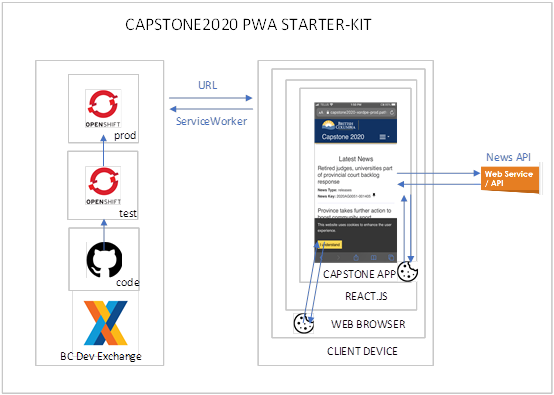
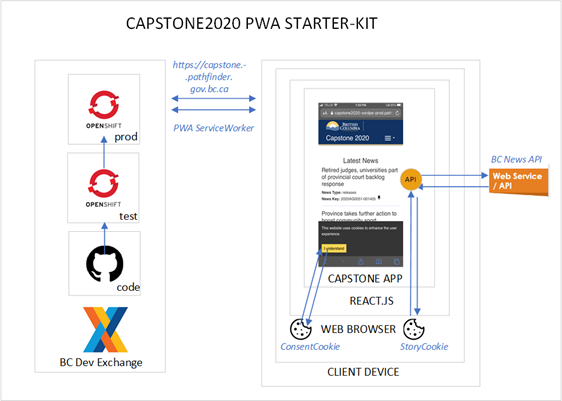
modify readme

diff --git a/docs/README.md b/docs/README.md
@@ -1,7 +1,7 @@
 <!--
  * @Author: your name
  * @Date: 2020-07-28 22:06:43
- * @LastEditTime: 2020-07-28 23:04:43
+ * @LastEditTime: 2020-07-29 12:49:26
  * @LastEditors: Please set LastEditors
  * @Description: In User Settings Edit
  * @FilePath: \undefinedc:\Users\Mark\Desktop\md\docs\README.md
@@ -20,15 +20,15 @@ During the summer of 2020 working with a developer team from Camosun College we 
 
 ## Modern Application Playbook?
 
-The [playbook](https://bcgov.github.io/CITZ-IMB-playbook/) describes collection of references, tools, and best practices starting with  product ideation, project approval, team formation, design, development stages through continuous improvement to the product sustainment lifecycle which our Agile team relied upon.
+We developed our solution by following the CITZ IMB Modern application [playbook](https://bcgov.github.io/CITZ-IMB-playbook/) which describes a collection of references, tools, and best practices starting from product ideation, project approval, team formation, design, development stages through continuous improvement to the product sustainment lifecycle which our Agile team relied upon.
 
 ## PWA Starter-kit
 
-This ‘starter kit’ was developed as a playbook “exemplar”. We developed on the [BC DevExchange](D:\capstone2020\bcdevechange.org) OpenShift container platform and followed community best practices including adherence to the 12 factor approach. 
+This 'starter kit' was developed as a playbook "exemplar". We developed on the [BC DevExchange](D:\capstone2020\bcdevechange.org) OpenShift container platform and followed community best practices including adherence to the 12 factor approach. 
 
 ## Twelve Factors
 
-This solution conforms to the principles of cloud ready solution development and follows the twelve factors approach. We describe how we conform in this article.
+This solution conforms to the principles of cloud ready solution development and follows the twelve factors approach. We describe how we conform in this [article](./TwelveFactor.md).
 
 # Features
 
@@ -46,33 +46,53 @@ This solution conforms to the principles of cloud ready solution development and
 
 # Solution Architecture
 
-![Screenshot](./images/architecture.png)
+The 'PWA starter kit' is based upon the create-react-app solution from Facebook developed using react.js. This ‘start-kit’ provides product owners with a foundation to develop mobile applications. The key elements which are provided include:
 
-Capstone2020 is a solution exemplar  developed on the BC Dev Exchange OpenShift platform using the facebook ‘create-react-app’ framework developed using react.js. The Capstone app is a progressive web app that can be user installed on Android devices. 
+1.	**BCGov Branding (Header/footer):** at this stage, the request has a status of **in-review**. Only at this stage can a user edit or delete the request, i.e. the edit and delete buttons are only visible on the request page at this stage. For the admin, they can either approve or disapprove the request, i.e. the request view page will show only the buttons for approval and disapproval.
 
-Using a call back serviceworker it maintains a connection with the hosting environment allowing the user to be notified if solution updates are deployed.
+2.	**Menu System:** <em>once the request has been approved the status changes to **pending** and, the user can no longer edit or delete it. For the admin, there will be a button on the request page to resolve the request.</em>
+
+3.	**App Shell:** <em>when a request is disapproved by an admin, the status changes to **disapproved** and no further action can be performed on it by either the user or admin.</em>
+
+<br/>
+
+![Screenshot](./images/Architecture.png)
+
+The Capstone app is a progressive web app that can be user installed on Android devices.
+
+Using a call back serviceworker script which maintains a connection with the hosting environment thereby allowing the user to be notified when solution updates are deployed.
+
+## App Start: 
+
+![Screenshot](./images/app-start.png)
+
+Some text that describes what is happening here
+
+
+## Selecting features:
+
+![Screenshot](./images/selecting-features.png)
+
+Some text that explains what is happening here
+
 
 ###	Key files:
 
-* [./src/views](https://github.com/bcgov/CITZ-IMB-Capstone2020/tree/master/src/views) : solution code files.
+[./.env](https://github.com/bcgov/CITZ-IMB-Capstone2020/blob/master/.env) : where the news API located.
 
-* [./src/css](https://github.com/bcgov/CITZ-IMB-Capstone2020/tree/master/src/css) : solution style files.
+[./public/](https://github.com/bcgov/CITZ-IMB-Capstone2020/tree/master/public)
 
-* [./jenkins](https://github.com/bcgov/CITZ-IMB-Capstone2020/tree/master/.jenkins) : Jenkins IO files.
-
-* [./.openshiftio](https://github.com/bcgov/CITZ-IMB-Capstone2020/tree/master/.openshiftio) : OpenShift IO files.
-
-* [.env](https://github.com/bcgov/CITZ-IMB-Capstone2020/blob/master/.env) : where the news API located.
-
-* [https://github.com/bcgov/CITZ-IMB-Capstone2020/blob/master/package.json](https://github.com/bcgov/CITZ-IMB-Capstone2020/blob/master/package.json) : all npm packages located.
-
-* [Jenkinsfile](https://github.com/bcgov/CITZ-IMB-Capstone2020/blob/master/Jenkinsfile) : pipeline script.
-
-* [serviceworker.js](https://github.com/bcgov/CITZ-IMB-Capstone2020/blob/master/public/serviceworker.js) : where you have to run the service worker.
+* [index.html](https://github.com/bcgov/CITZ-IMB-Capstone2020/blob/master/public/index.html) : solution entry point
 
 * [manifest.json](https://github.com/bcgov/CITZ-IMB-Capstone2020/blob/master/public/manifest.json) : where you have to update the icon based on different display sizes.
 
-* [index.js](https://github.com/bcgov/CITZ-IMB-Capstone2020/blob/master/src/index.js) :  where you have to register the service worker.
+[./src/](https://github.com/bcgov/CITZ-IMB-Capstone2020/tree/master/src)
+
+* [./views](https://github.com/bcgov/CITZ-IMB-Capstone2020/tree/master/src/views) : solution code files.
+
+* [./css](https://github.com/bcgov/CITZ-IMB-Capstone2020/tree/master/src/css) : solution style files.
+
+* [./index.js](https://github.com/bcgov/CITZ-IMB-Capstone2020/blob/master/src/index.js) :  where you have to register the service worker.
 
 # Application Shell
 
@@ -86,7 +106,12 @@ The 'PWA starter kit' is based upon the create-react-app solution from Facebook.
 
 # Data Architecture
 
-1.	A brief overview
+* The data return from [NewsAPI](https://catalogue.data.gov.bc.ca/dataset/bc-gov-news-api-service/resource/3692fd5e-87e2-47ab-8eee-9131ea249436) : Key-value pairs in JSON format.
+
+* The data **after* converting JSON format in [FetchLatestNews.js](https://github.com/bcgov/CITZ-IMB-Capstone2020/blob/master/src/views/FetchLatestNews.js) ( line:30 ): String Array
+
+* Cookie [FetchLatestNews.js](https://github.com/bcgov/CITZ-IMB-Capstone2020/blob/master/src/views/FetchLatestNews.js) ( line:23 ): String Array
+
 
 
 # Technologies used
@@ -99,13 +124,11 @@ The 'PWA starter kit' is based upon the create-react-app solution from Facebook.
 
 4.	[Webpack](https://webpack.js.org/), a module bundler for mobile applications. Used as a build tool to bundle  JS and CSS files into a single file. Also used to set up a dev server for local development.
 
-5.	[ESLint](https://eslint.org/), a linter tool for pattern identification and reporting in JavaScript, which I used alongside the [Airbnb style guide](https://github.com/airbnb/javascript).
+5.	[OpenShift](https://www.openshift.com/) , a hosting environment wich includes the runtime container and REST API, coordination, and web interfaces to deploy and manage individual containers
 
-6.	[OpenShift](https://www.openshift.com/) , a hosting environment wich includes the runtime container and REST API, coordination, and web interfaces to deploy and manage individual containers
+6.	[Jenkins](https://www.jenkins.io/), a deployment pipeline described how to test, build, and deploy app from GitHub to OpenSHift
 
-7.	[Jenkins](https://www.jenkins.io/), a deployment pipeline described how to test, build, and deploy app from GitHub to OpenSHift
-
-8.	[GitHub](https://github.com/) a the source code repository 
+7.	[GitHub](https://github.com/) a the source code repository 
 
 # Additional technologies you may want to use
 
@@ -113,31 +136,59 @@ The 'PWA starter kit' is based upon the create-react-app solution from Facebook.
 
 2.	[Express](https://expressjs.com/), a web framework for Node.js. 
 
-3.	[Webpack](https://webpack.js.org/), a module bundler for mobile applications. Used as a build tool to bundle  JS and CSS files into a single file. Also used to set up a dev server for local development.
+3.	[Babel](https://babeljs.io/), a toolchain used to convert ES5+ code into backwards-compatible JavaScript code for current or older browsers.
 
-4.	[Babel](https://babeljs.io/), a toolchain used to convert ES5+ code into backwards-compatible JavaScript code for current or older browsers.
+4.	[Jest](https://jestjs.io/) and [Enzyme](https://github.com/airbnb/enzyme), testing utilities for JavaScript and React applications.
 
-5.	[Jest](https://jestjs.io/) and [Enzyme](https://github.com/airbnb/enzyme), testing utilities for JavaScript and React applications.
+5.	[ESLint](https://eslint.org/), a linter tool for pattern identification and reporting in JavaScript, which I used alongside the [Airbnb style guide](https://github.com/airbnb/javascript).
 
-6.	[ESLint](https://eslint.org/), a linter tool for pattern identification and reporting in JavaScript, which I used alongside the [Airbnb style guide](https://github.com/airbnb/javascript).
+6.	[MongoDB](https://www.mongodb.com/), a document database with the scalability and flexibility that you want with the querying and indexing that you need.
 
-7.	[MongoDB](https://www.mongodb.com/), a document database with the scalability and flexibility that you want with the querying and indexing that you need.
+7. [Postgress](https://www.postgresql.org/about/), a powerful, open source object-relational database system.
 
-9. [Postgress](https://www.postgresql.org/about/), a powerful, open source object-relational database system.
-
-9.	[Redis](https://redis.io/topics/introduction), an open source, in-memory data structure store, used as a database, cache and message broker. 
+8.	[Redis](https://redis.io/topics/introduction), an open source, in-memory data structure store, used as a database, cache and message broker. 
 
 **A full list of the tools and technologies used in this project is available in the <em>package.json</em> file.**
 
+# Possible solution enhancements
+
+1.	**User Stories**,  maintaining a user story catalogue ensures that developed features align to value statements and identify enhancement opportunities.
+
+2.	**Push notification**, incorporate a communication channel to the user notifying them of specific features , service availability windows, feedback channels. PWA architecture supports this ability.
+
+3.	**Testing**, due to time considerations we did not develop a robust suite of tests using jest or Enzyme. You should!
+
+4.	**Logging**, on the roadmap but not implemented. Incorporate analytics by logging events that will provide information about the user experience. Consider using the winston library and logging  your event streams to the IMB Logstash collector. 
+
+5.	**Menu system**, consider implementing a sliding menu as is common in most mobile apps
+
+6.	**Database**, the starter kit would benefit by having a backing database service and the use of Redux (or equiv) robust data handling.
+
+7.	**Oauth**, there are use cases where user authentication is a requirement
+
+
 # Contributing
 
-This is an open-source project licensed under the MIT licensing agreement and as such contributions are highly welcome. However, there are some recommended guidelines to follow to ensure proper collaboration by everybody. Before we get to those, however, here is how you will get the project set up on your local development system (first ensure you have Node and npm installed):
+This is an open-source project licensed under the Apache licensing agreement and as such contributions are highly welcome. However, there are some recommended guidelines to follow to ensure proper collaboration by everybody. Before we get to those, however, here is how you will get the project set up on your local development system (first ensure you have Node and npm installed):
 
 ## Getting set up
 
 Follow the [Build Solution on your Local Environment](./build.md) tutorial.
 
 Everything you need to know about this can be found in the tutorial. It includes formats for commit messages, branch naming and PR description.
+
+## Deploying to OpenShift
+Follow the Deploy to openshift tutorial.
+
+* [Morden web apps to OpenShift Part 1 - Web apps in two commands](https://developers.redhat.com/blog/2018/10/04/modern-web-apps-openshift-part-1/)
+
+* [Morden web apps to OpenShift Part 2 - chained builds](https://developers.redhat.com/blog/2018/10/23/modern-web-applications-on-openshift-part-2-using-chained-builds/)
+
+* [Morden web apps to OpenShift Part 3 - development environment](https://developers.redhat.com/blog/2019/01/17/modern-web-applications-on-openshift-part-3-openshift-as-a-development-environment/)
+
+* [Morden web apps to OpenShift Part 4 - Pipelines](https://developers.redhat.com/blog/2020/04/27/modern-web-applications-on-openshift-part-4-openshift-pipelines/)
+
+Everything you need to know about this can be found in the tutorial.
 
 ## Maintaining your solution
 
